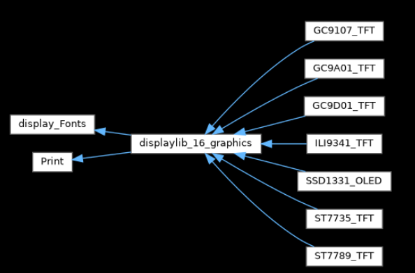
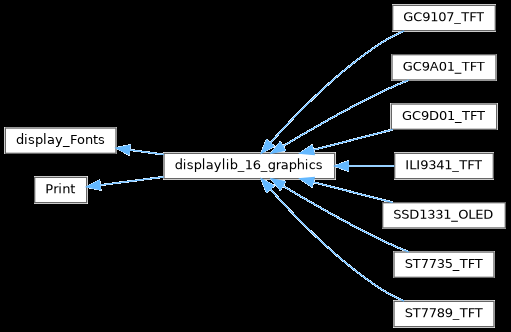
version 2.6.0

Changed region(s): [[0.0, 0.0, 1.0, 0.9963]]

diff --git a/src/displaylib_16/gc9107.cpp b/src/displaylib_16/gc9107.cpp
@@ -183,29 +183,29 @@ void GC9107_TFT::TFTsetRotation(display_rotate_e mode) {
 		case Degrees_0 : // 0x00
 			_width =_widthStartTFT;
 			_height = _heightStartTFT;
-			_xstart = _colOffset;
-			_ystart = _rowOffset;
+			_XStart = _colOffset;
+			_YStart = _rowOffset;
 			break;
 		case Degrees_90:
 			madctl |= (MADCTL_FLAGS_t::ML | MADCTL_FLAGS_t::MV | MADCTL_FLAGS_t::MX  ); // 0x70 0111-0000;
 			_width  =_heightStartTFT;
 			_height = _widthStartTFT;
-			_xstart = _rowOffset;
-			_ystart = _colOffset;
+			_XStart = _rowOffset;
+			_YStart = _colOffset;
 			break;
 		case Degrees_180:  
 			madctl |= (MADCTL_FLAGS_t::MY | MADCTL_FLAGS_t::MX ); // 0xC0 1100-0000;
 			_width =_widthStartTFT;
 			_height = _heightStartTFT;
-			_xstart = _RAM_WIDTH  - _widthStartTFT  - _colOffset;
-			_ystart = _RAM_HEIGHT - _heightStartTFT - _rowOffset;
+			_XStart = _RAM_WIDTH  - _widthStartTFT  - _colOffset;
+			_YStart = _RAM_HEIGHT - _heightStartTFT - _rowOffset;
 			break;
 		case Degrees_270:  
 			madctl |= (MADCTL_FLAGS_t::MY |MADCTL_FLAGS_t::MV ); // 0xA0 1010-0000;
 			_width =_heightStartTFT;
 			_height = _widthStartTFT;
-			_xstart = _RAM_HEIGHT - _heightStartTFT - _rowOffset;
-			_ystart = _RAM_WIDTH  - _widthStartTFT  - _colOffset;
+			_XStart = _RAM_HEIGHT - _heightStartTFT - _rowOffset;
+			_YStart = _RAM_WIDTH  - _widthStartTFT  - _colOffset;
 			break;
 	}
 	writeCommand(GC9107_MADCTL);
@@ -281,10 +281,10 @@ void GC9107_TFT::setAddrWindow(uint16_t x1, uint16_t y1, uint16_t w, uint16_t h)
 		h = y1;
 	}
 	// Translate panel coordinates → VRAM coordinates
-	x1 += _xstart;
-	w  += _xstart;
-	y1 += _ystart;
-	h  += _ystart;
+	x1 += _XStart;
+	w  += _XStart;
+	y1 += _YStart;
+	h  += _YStart;
 	// Send to display coordinates
 	uint8_t x1Higher = (x1 >> 8) ;
 	uint8_t x1Lower  = (x1 & 0xFF);

diff --git a/examples/st7735/hello_80x160/main.cpp b/examples/st7735/hello_80x160/main.cpp
@@ -2,7 +2,7 @@
 	@file     main.cpp
 	@author   Gavin Lyons
 	@brief    Example cpp file for st7735 library. Tests Hello World
-	@details  This example file is for 96' 80x160 display 
+	@details  This example file is for 0.96 inch 80x160 pixel display 
 			  See USER OPTIONS in SETUP function
 			  Note PCB choice and offsets
 	@test
@@ -100,13 +100,10 @@ void Test101(void)
 }
 
 // Colour Test :: Red, Green, Blue, Yellow, White — black background
-// If colours are wrong check: PCB type (option 3), setColorByteSwap(), TFTchangeInvertMode()
+// If colours are wrong check: PCB type (option 3), TFTchangeInvertMode()
 void ColorTest(void)
 {
 	myTFT.fillScreen(myTFT.C_BLACK);
-	// Five blocks stacked vertically, centred in 80x160
-	// Each block: width=64, height=24, x=8 (4px margin each side), radius=8
-	// Spacing: 28px per block (24 height + 4 gap), y_start=12 → last block ends at y=148
 	myTFT.fillRoundRect(8,  12, 64, 24, 8, myTFT.C_RED);
 	myTFT.fillRoundRect(8,  40, 64, 24, 8, myTFT.C_GREEN);
 	myTFT.fillRoundRect(8,  68, 64, 24, 8, myTFT.C_BLUE);

diff --git a/include/displaylib_16/gc9107.hpp b/include/displaylib_16/gc9107.hpp
@@ -102,8 +102,6 @@ private:
 	// Screen Offsets
 	uint8_t _colOffset = 0;     /**< Portrait col (X) dead-RAM offset – user supplied */
 	uint8_t _rowOffset = 0;     /**< Portrait row (Y) dead-RAM offset – user supplied */
-	uint8_t _xstart = 0;        /**< Applied offset for current rotation (X axis) */
-	uint8_t _ystart = 0;        /**< Applied offset for current rotation (Y axis) */
 
 	// GC9107 registers + Commands
 	static constexpr uint8_t GC9107_SLPIN            = 0x10; /**< Enter Sleep Mode */

diff --git a/extra/doc/st7735/README.md b/extra/doc/st7735/README.md
@@ -28,7 +28,9 @@ Comment in one path and one path only.
 
 | Filename | Function | Note |
 | --- | --- | --- |
-| hello | Hello world | --- |
+| hello | Hello world for 128x128 display | --- |
+| hello_80x160 | Hello world for 80x160 display | note offsets |
+| hello_128x160 | Hello world for 128x160 display | --- |
 | text | Text  + fonts | --- |
 | graphics | Graphics | --- |
 | functions_fps | Functions(like rotate, scroll) + FPS tests | --- |
@@ -85,6 +87,8 @@ Default is "TFT_ST7735R_Red".  If you select the wrong one if may still work but
 | 3 | ST7735R Red Tab | TFT_ST7735R_Red | Red PCB v1.1, 1.44 inch , 128x128 pixels |
 | 4 | ST7735S Black Tab | TFT_ST7735S_Black | Red PCB v1.2, 1.8 inch, 128x160 pixels |
 | 5 | ST7735S 80x160 | TFT_ST7735S_80160 | Blue PCB .96 inch 80x160 pixels |
+
+The ST7735S 80x160 requires an offset of (26,1) or (24,0)
 
 ## Hardware
 